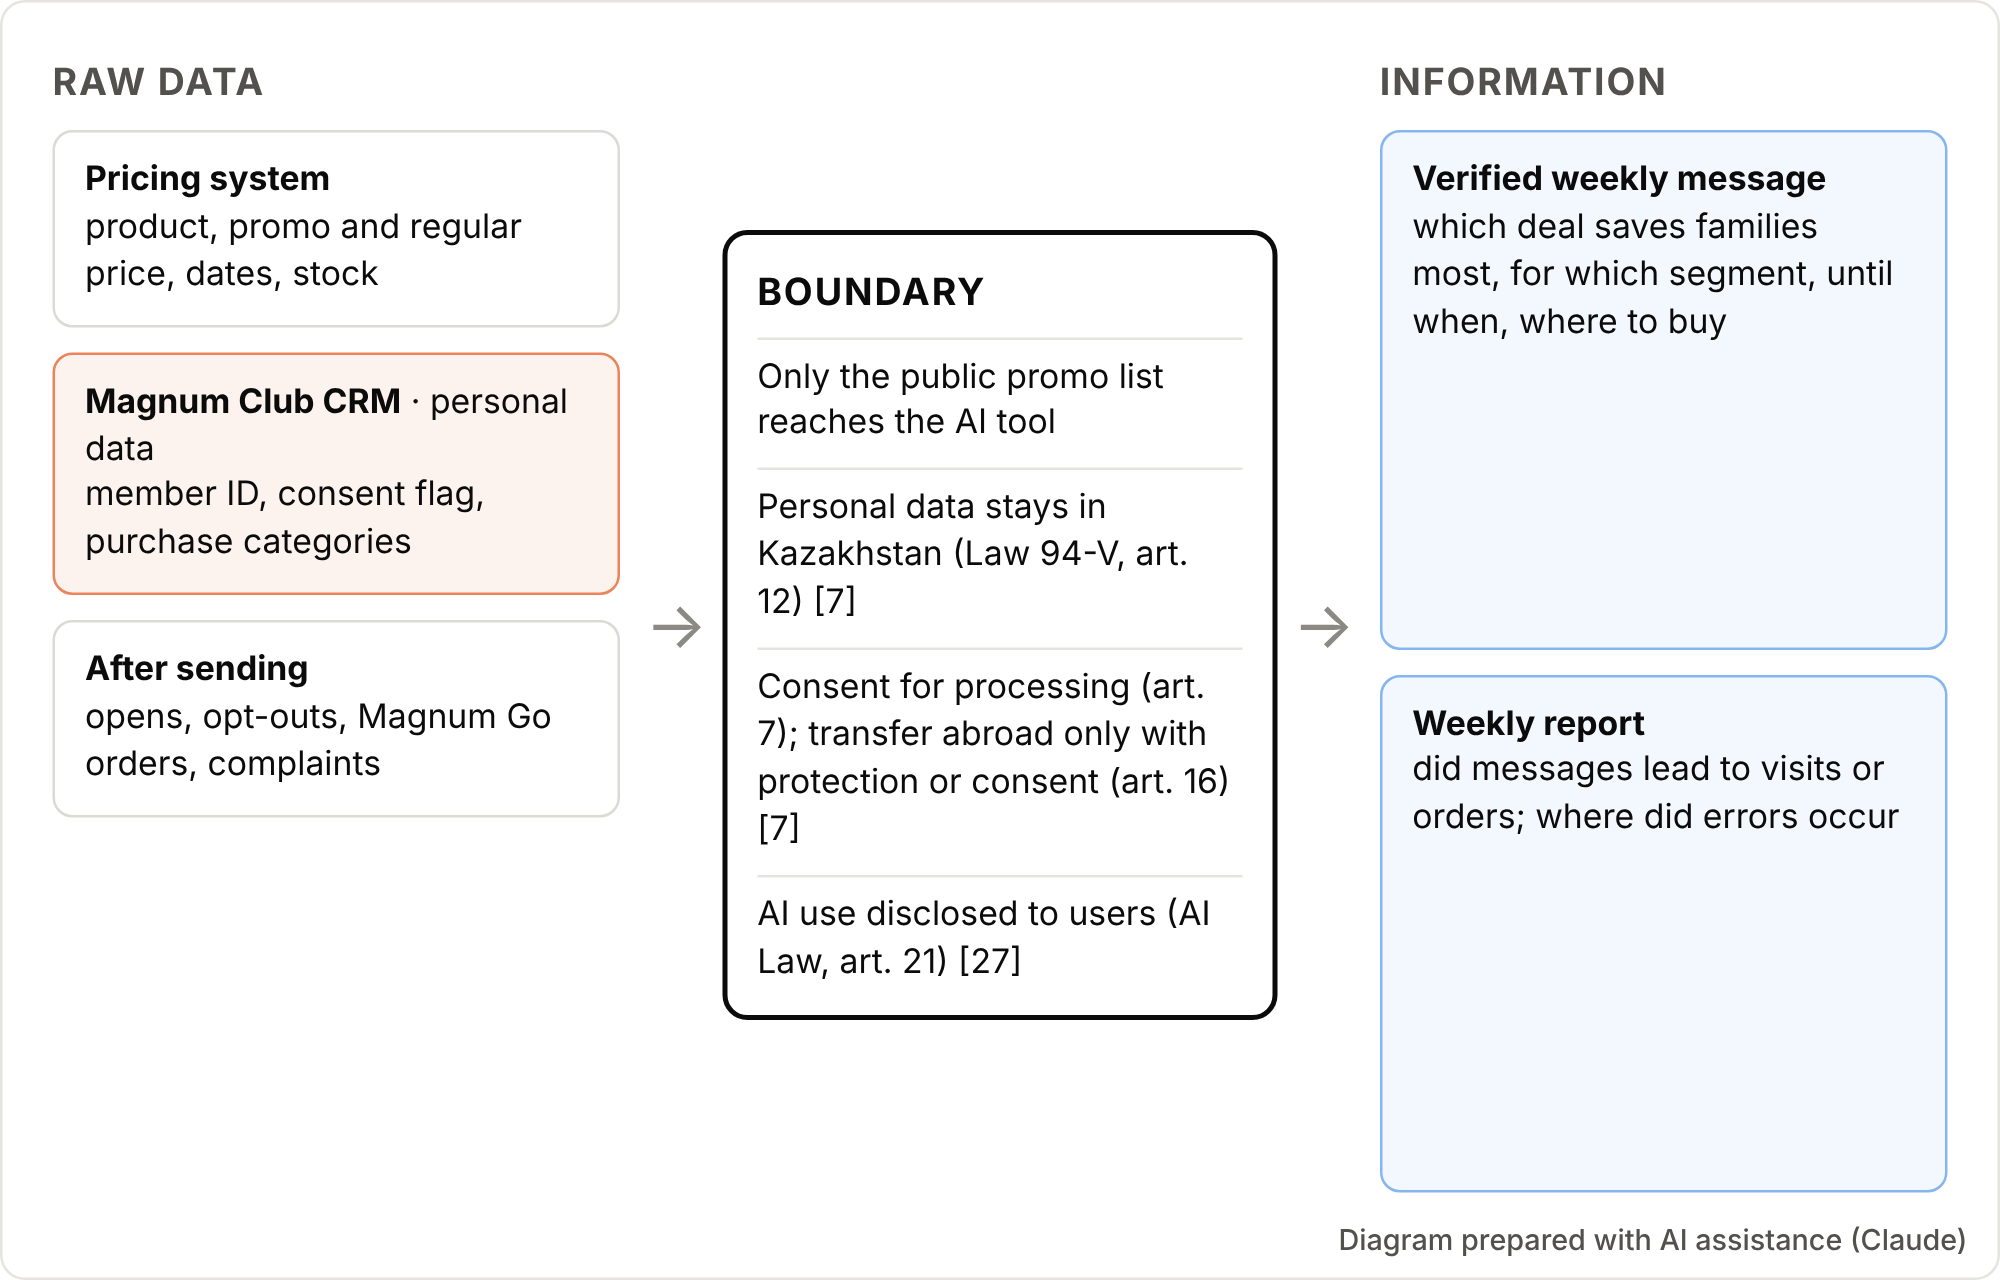
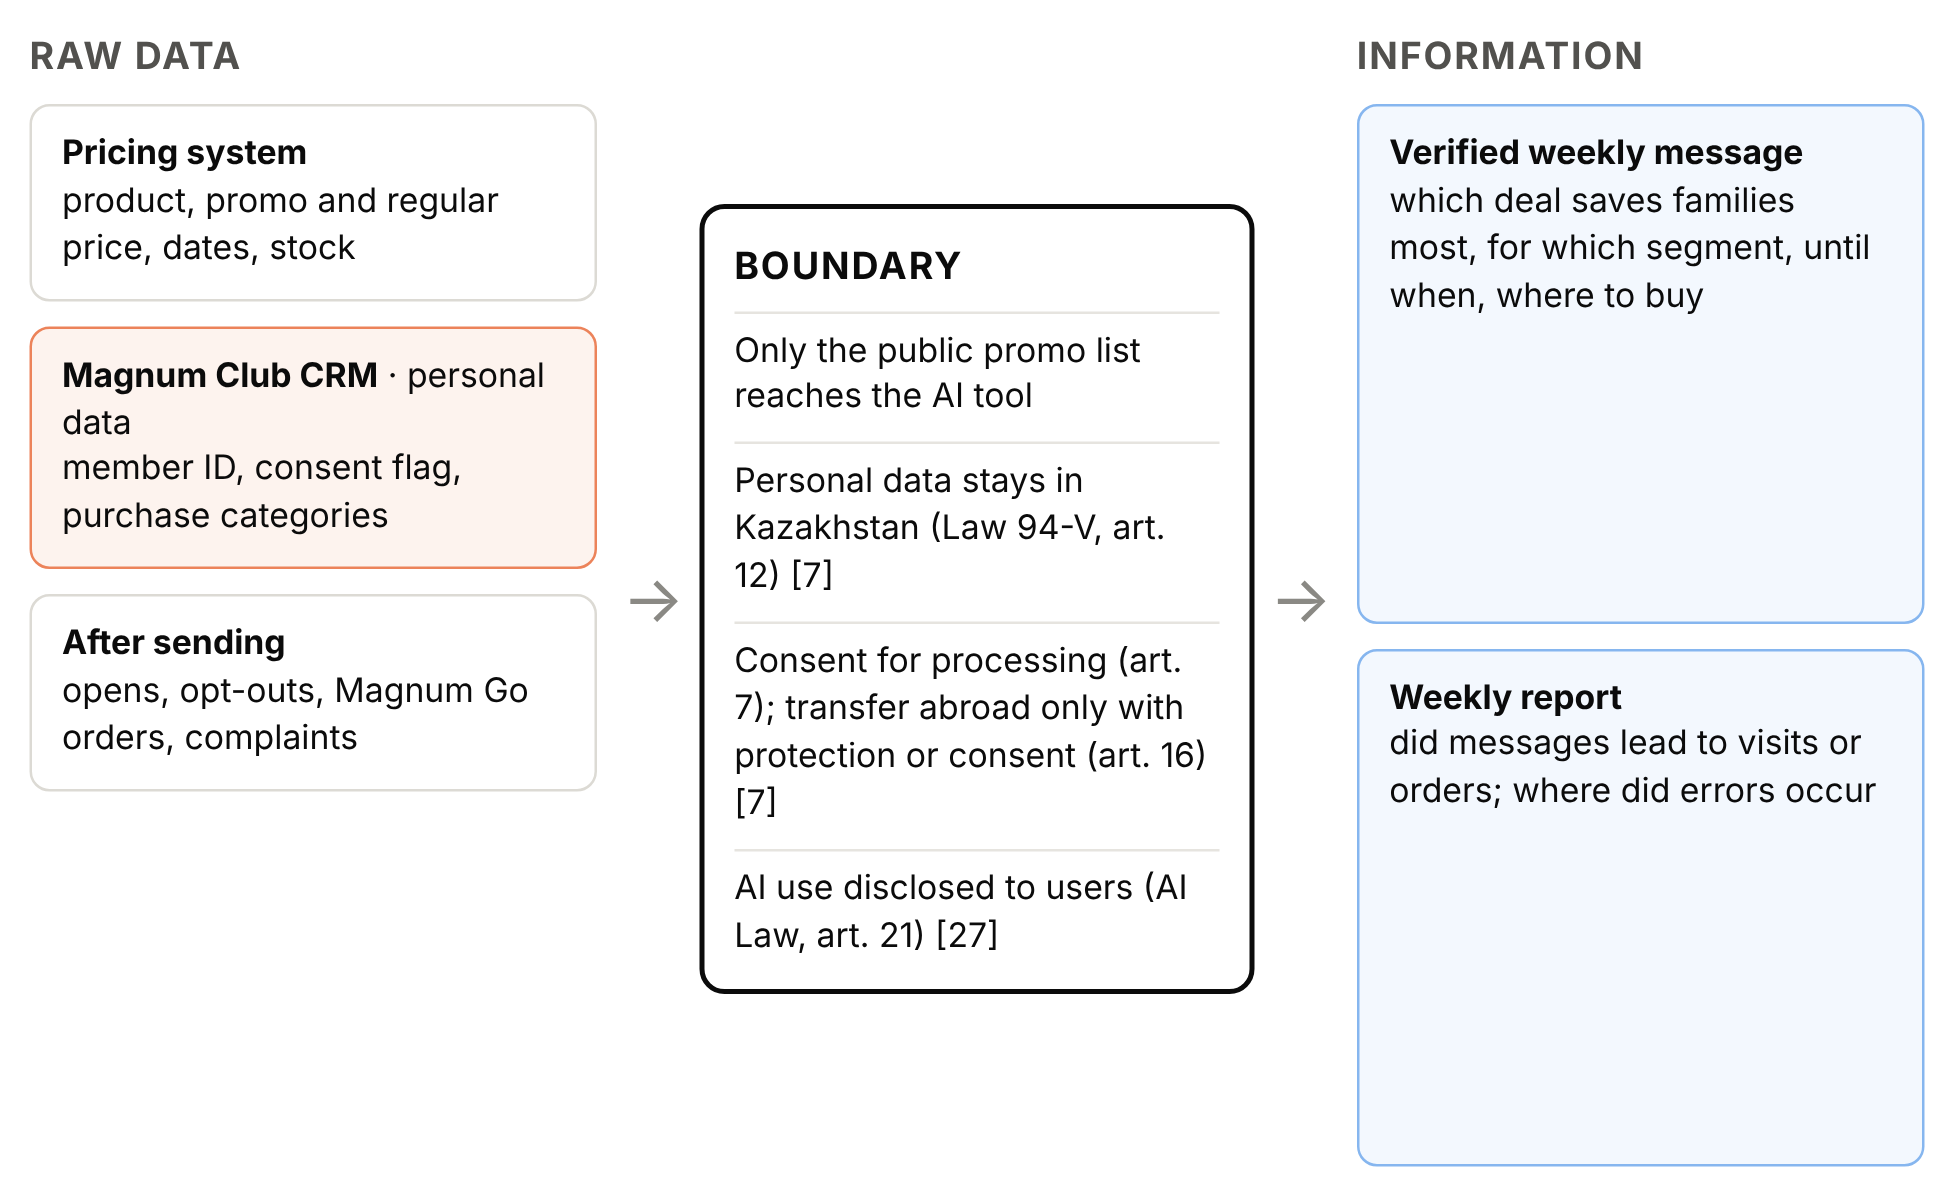
Use the A3 visuals as shown in the author's PPTX (crops applied)
Claude-Session: https://claude.ai/code/session_01DVg8RStPMhVGY815Y942TH

diff --git a/README.md b/README.md
@@ -5,6 +5,6 @@ https://kniazev-daniil-portfolio.vercel.app
 
 - `records/` weekly records (Records 1–5 as DOCX and PDF, Records 6–7 as PDF) and the Week 5 process-map artifact
 - `assignments/` Assignment 1 report and appendix, Assignment 2 slides, Assignment 3 photo essay (PPTX) and evidence file (PDF)
-- `media/` Assignment 2 video essay; `media/a3/` the ten Assignment 3 visuals as embedded in the photo essay
+- `media/` Assignment 2 video essay; `media/a3/` the ten Assignment 3 visuals as they appear in the photo essay (with the crops applied in the PPTX)
 
 The Assignment 2 narration is an AI voice generated from my own voice (ElevenLabs), and the animation was produced with AI assistance (Claude). AI use is declared in each record and assignment.
